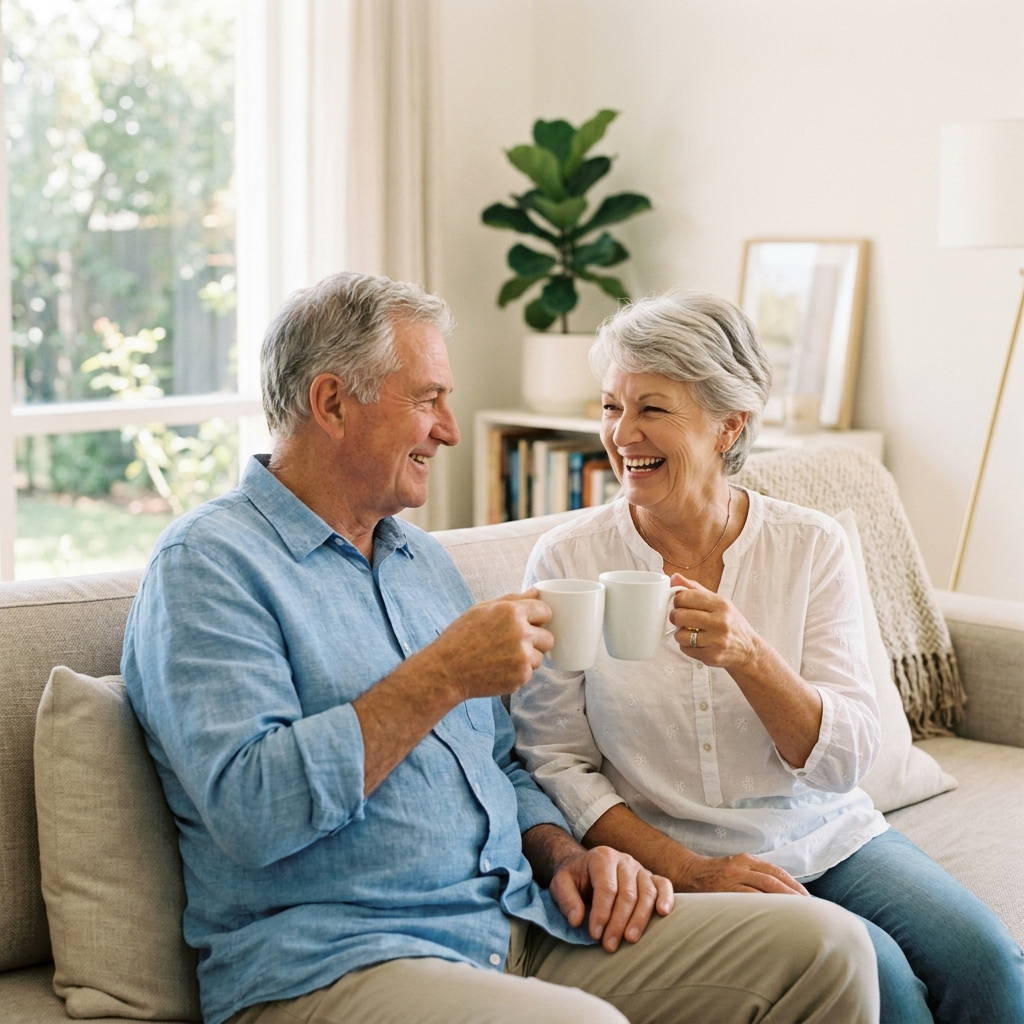
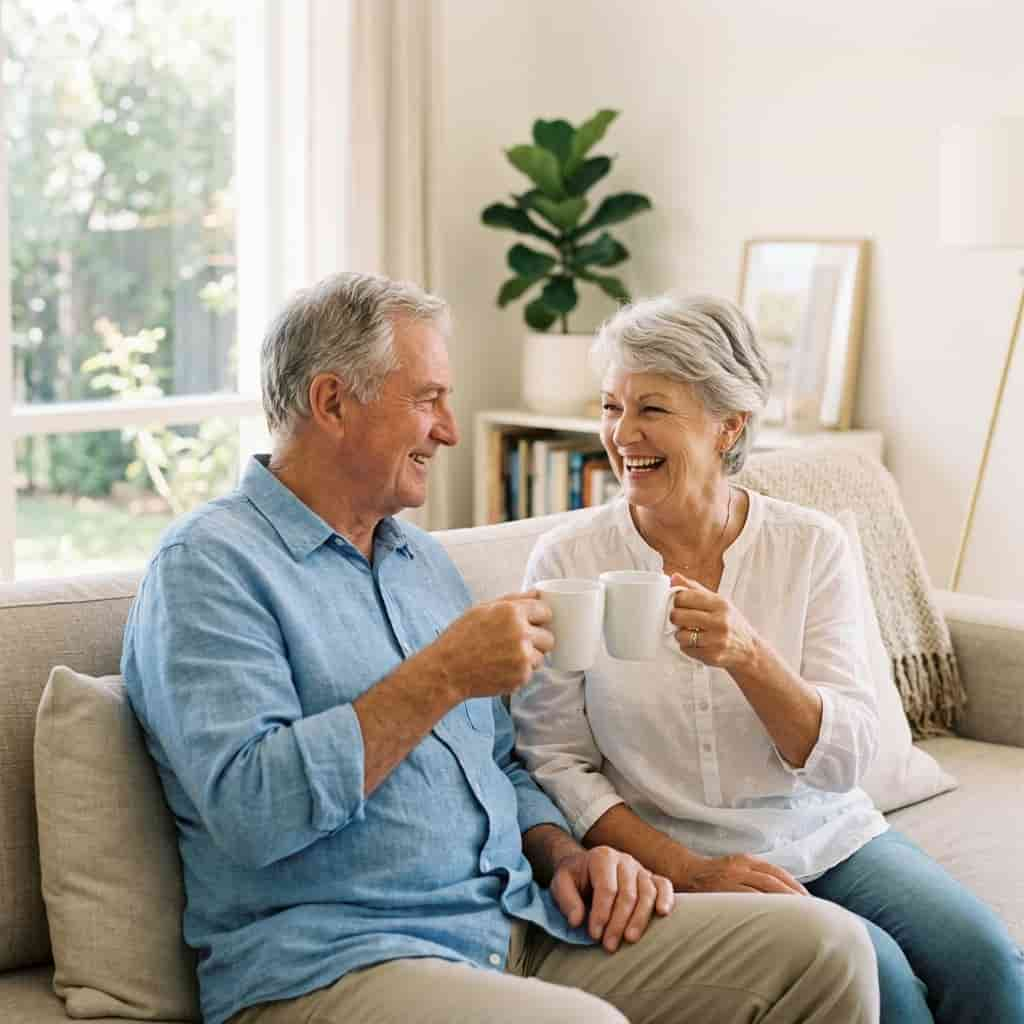
feat: update hero image and corresponding life insurance landing page content

Changed region(s): [[0.5938, 0.4375, 0.625, 0.4688]]

diff --git a/life-insurance-50.html b/life-insurance-50.html
@@ -1,7 +1,7 @@
 <!DOCTYPE html>
 <html lang="he" dir="rtl">
 <head>
-  <link rel="preload" as="image" href="main-bg.webp" fetchpriority="high">
+  <link rel="preload" as="image" href="couple-50-hero.webp" fetchpriority="high">
   <meta charset="UTF-8" />
   <meta name="viewport" content="width=device-width, initial-scale=1.0" />
   <title>ביטוח חיים לבני 50+ – הצעת מומחה</title>
@@ -271,7 +271,7 @@
       <div class="wrap">
         <!-- צד שמאל: תמונת זוג -->
         <div class="hero-image-side">
-          <img src="couple-50-hero.webp" alt="זוג מבוגר שמח נהנה מביטחון כלכלי" width="600" height="550" loading="eager">
+          <img src="couple-50-hero.webp" alt="זוג מבוגר שמח נהנה מביטחון כלכלי" width="600" height="550" loading="eager" fetchpriority="high">
         </div>
 
         <!-- צד ימין: כותרת + טופס -->
@@ -450,11 +450,11 @@
       </div>
     </section>
     <!-- ===== FLOATING ACTIONS (FAB) ===== -->
-    <a href="https://wa.me/972559106223" target="_blank" class="fab-btn fab-whatsapp" aria-label="שלח הודעה בוואטסאפ" onclick="return gtag_report_conversion('https://wa.me/972559106223');">
+    <a href="https://wa.me/972559106223" target="_blank" class="fab-btn fab-whatsapp mobile-fab" aria-label="שלח הודעה בוואטסאפ" onclick="return gtag_report_conversion('https://wa.me/972559106223');">
       <i><svg class="icon-svg" width="1em" height="1em" fill="currentColor" xmlns="http://www.w3.org/2000/svg" viewBox="0 0 448 512"><path d="M380.9 97.1C339 55.1 283.2 32 223.9 32c-122.4 0-222 99.6-222 222 0 39.1 10.2 77.3 29.6 111L0 480l117.7-30.9c32.4 17.7 68.9 27 106.1 27h.1c122.3 0 224.1-99.6 224.1-222 0-59.3-25.2-115-67.1-157zm-157 341.6c-33.2 0-65.7-8.9-94-25.7l-6.7-4-69.8 18.3L72 359.2l-4.4-7c-18.5-29.4-28.2-63.3-28.2-98.2 0-101.7 82.8-184.5 184.6-184.5 49.3 0 95.6 19.2 130.4 54.1 34.8 34.9 56.2 81.2 56.1 130.5 0 101.8-84.9 184.6-186.6 184.6zm101.2-138.2c-5.5-2.8-32.8-16.2-37.9-18-5.1-1.9-8.8-2.8-12.5 2.8-3.7 5.6-14.3 18-17.6 21.8-3.2 3.7-6.5 4.2-12 1.4-32.6-16.3-54-29.1-75.5-66-5.7-9.8 5.7-9.1 16.3-30.3 1.8-3.7 .9-6.9-.5-9.7-1.4-2.8-12.5-30.1-17.1-41.2-4.5-10.8-9.1-9.3-12.5-9.5-3.2-.2-6.9-.2-10.6-.2-3.7 0-9.7 1.4-14.8 6.9-5.1 5.6-19.4 19-19.4 46.3s19.9 53.7 22.7 57.4c2.8 3.7 39.1 59.7 94.8 83.8 35.2 15.2 49 16.5 66.6 13.9 10.7-1.6 32.8-13.4 37.4-26.4 4.6-13 4.6-24.1 3.2-26.4-1.3-2.5-5-3.9-10.5-6.6z"/></svg></i>
       <span>ווצאפ</span>
     </a>
-    <a href="tel:0559106223" onclick="return gtag_report_conversion('tel:0559106223');" class="fab-btn fab-phone" aria-label="חייג עכשיו">
+    <a href="tel:0559106223" onclick="return gtag_report_conversion('tel:0559106223');" class="fab-btn fab-phone mobile-fab" aria-label="חייג עכשיו">
       <i><svg class="icon-svg fa-phone" width="1em" height="1em" fill="currentColor" xmlns="http://www.w3.org/2000/svg" viewBox="0 0 512 512"><path d="M164.9 24.6c-7.7-18.6-28-28.5-47.4-23.2l-88 24C12.1 30.2 0 46 0 64C0 311.4 200.6 512 448 512c18 0 33.8-12.1 38.6-29.5l24-88c5.3-19.4-4.6-39.7-23.2-47.4l-96-40c-16.3-6.8-35.2-2.1-46.3 11.6L304.7 368C234.3 334.7 177.3 277.7 144 207.3L193.3 167c13.7-11.2 18.4-30 11.6-46.3l-40-96z"/></svg></i>
       <span>חייגו</span>
     </a>